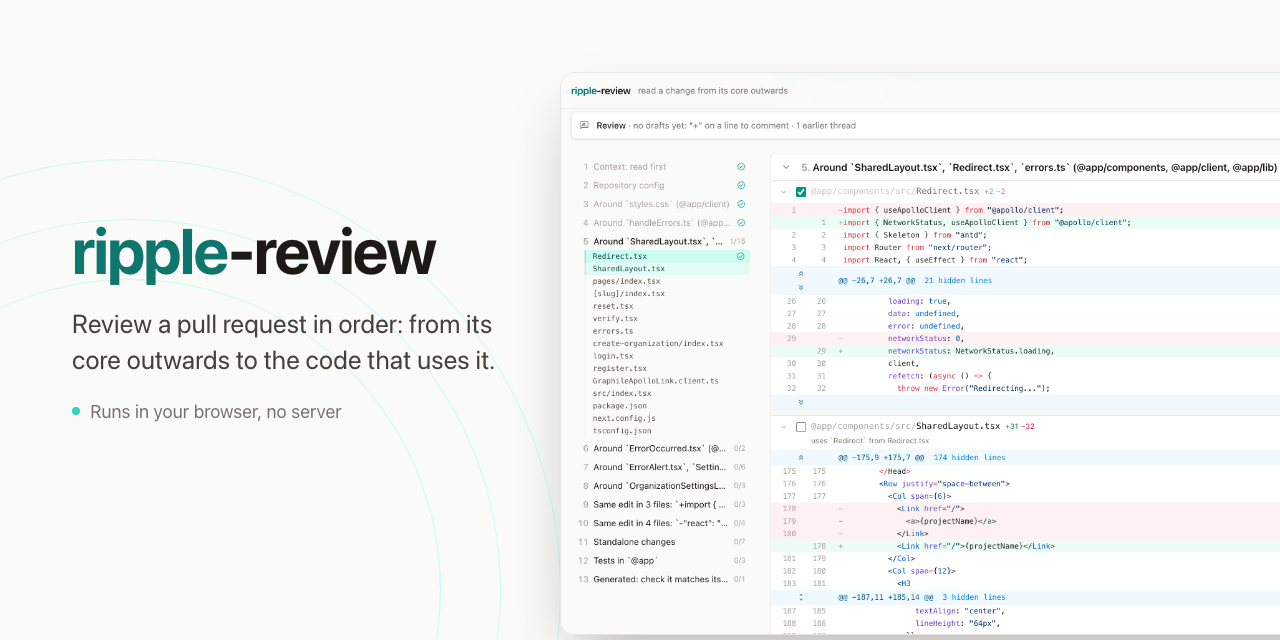
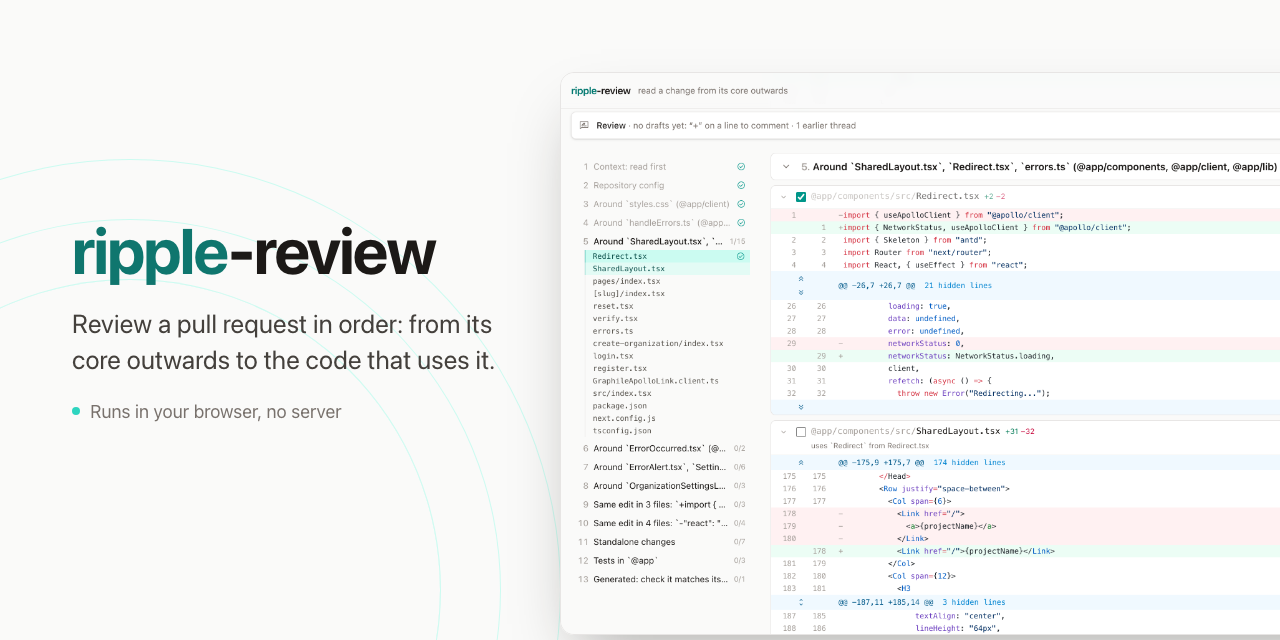
fix(web): the header and each file of a group are boxes of their own
The card's border ran around the gaps between its files. Now the page
shows between them, and the group is its header and its files' boxes.

Changed region(s): [[0.625, 0.25, 1.0, 0.625], [0.5938, 0.6562, 0.8438, 1.0]]

diff --git a/apps/web/src/app/review/components/group-card.component.ts b/apps/web/src/app/review/components/group-card.component.ts
@@ -24,7 +24,11 @@ import { GroupHeaderComponent } from "./group-header.component";
   ],
   changeDetection: ChangeDetectionStrategy.OnPush,
   template: `
+    <!-- The header and each file are boxes of their own, so the page shows
+         between the files and one file's diff doesn't run into the next. -->
     <rr-group-header
+      class="border-x border-t"
+      [class.rounded-b-lg]="collapsed() || !group().purpose"
       [group]="group()"
       [collapsed]="collapsed()"
       [done]="done()"
@@ -33,15 +37,15 @@ import { GroupHeaderComponent } from "./group-header.component";
     />
     @if (!collapsed()) {
       @if (group().purpose) {
-        <p class="border-b border-stone-100 px-4 py-2 text-sm text-stone-600 dark:border-stone-800 dark:text-stone-400">{{ group().purpose }}</p>
+        <p class="rounded-b-lg border-x border-b border-stone-200 bg-white px-4 py-2 text-sm text-stone-600 dark:border-stone-800 dark:bg-stone-900 dark:text-stone-400">{{ group().purpose }}</p>
       }
-      <!-- A tinted gap between files, so one file's diff doesn't run into the next file. -->
-      <ul class="flex flex-col gap-2 rounded-b-lg bg-stone-50 dark:bg-stone-950/60">
+      <ul class="mt-2 flex flex-col gap-2">
         @for (f of group().files; track f.path; let i = $index) {
           @let open = expanded().has(f.path) && withDiff(i);
-          <!-- Lands below the group header (2.75rem) when scrolled to. -->
+          <!-- Lands below the group header (2.75rem) when scrolled to; clip, not
+               hidden, rounds the corners and keeps the file row sticky. -->
           <li
-            class="scroll-mt-11 border-y border-stone-200 bg-white first:border-t-0 last:rounded-b-lg last:border-b-0 dark:border-stone-800 dark:bg-stone-900"
+            class="scroll-mt-11 overflow-clip rounded-lg border border-stone-200 bg-white dark:border-stone-800 dark:bg-stone-900"
             [id]="fileId(f.n)"
             [rrSpy]="{ group: group().id, file: f.path }"
           >
@@ -65,8 +69,7 @@ import { GroupHeaderComponent } from "./group-header.component";
     }
   `,
   host: {
-    class:
-      "block rounded-lg border border-stone-200 bg-white dark:border-stone-800 dark:bg-stone-900",
+    class: "block",
     "[id]": "group().id",
   },
 })
